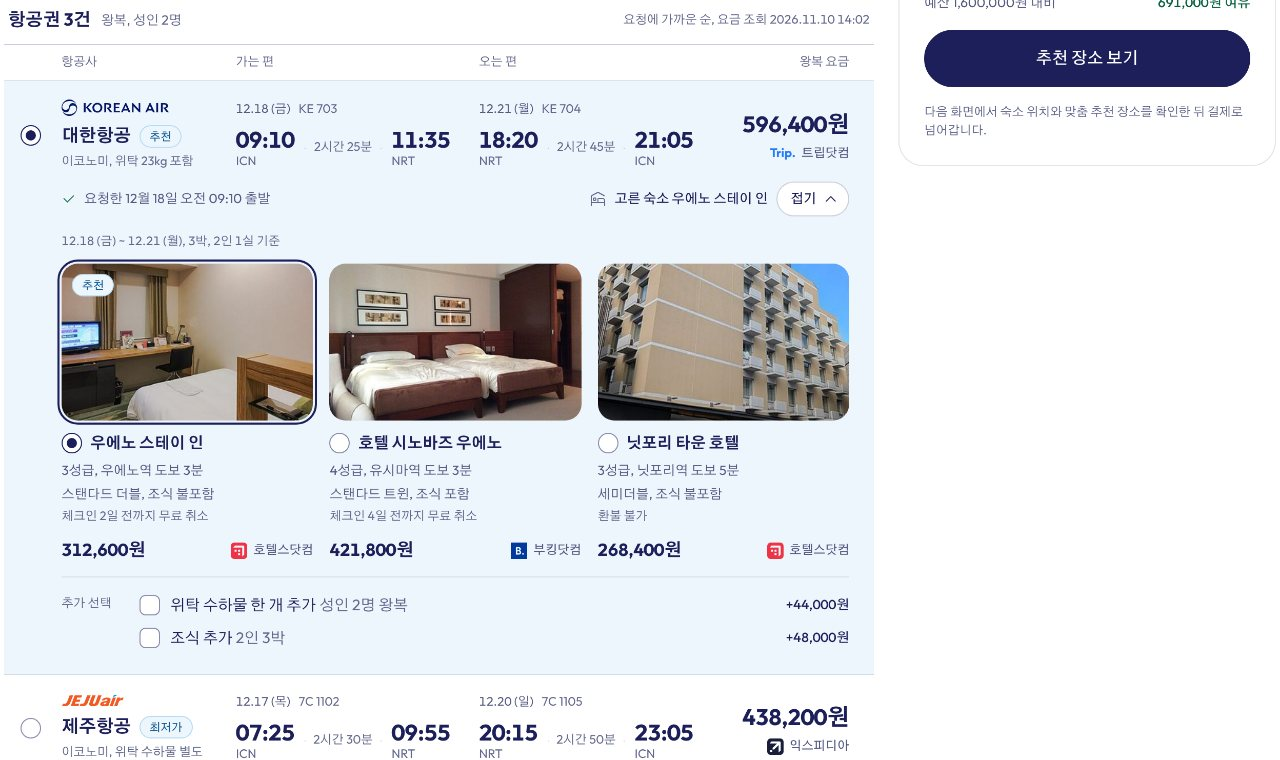
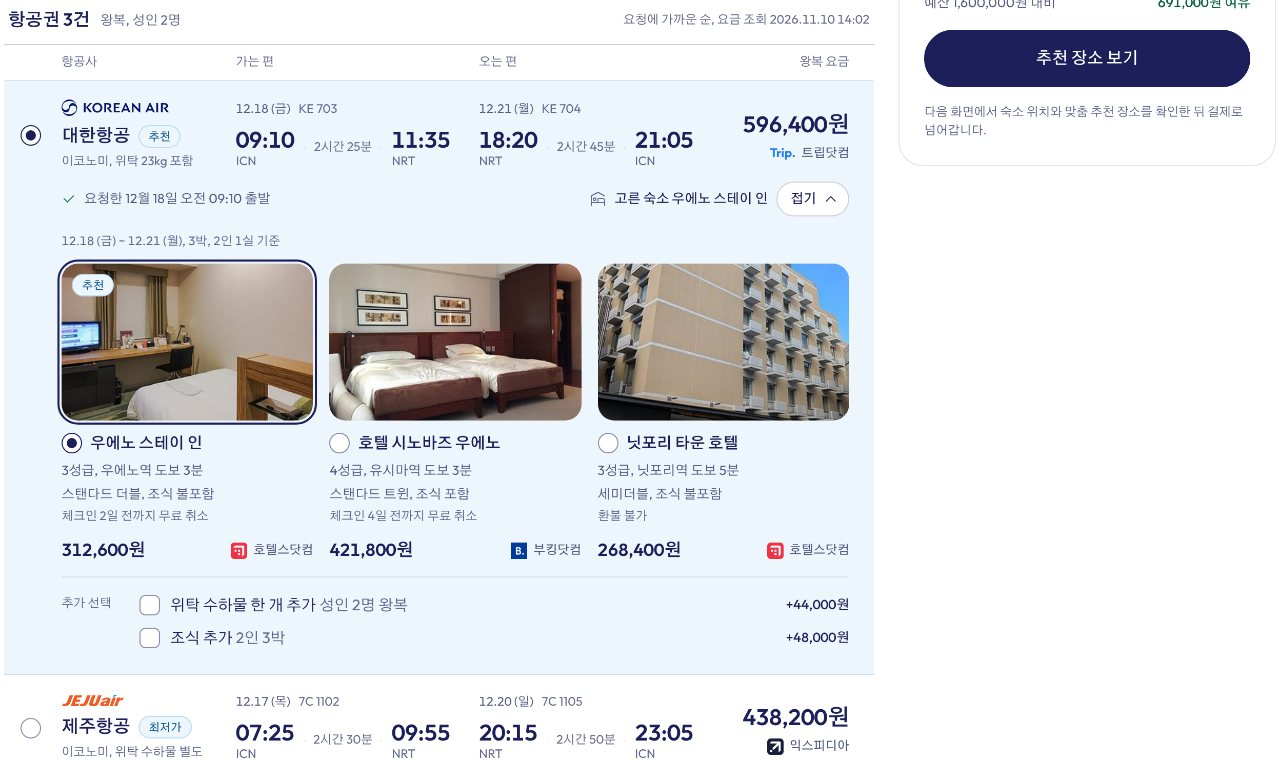
docs: 강조하는 글자의 굵기를 중간(600)으로 조정
- 굵게(700) 바꿨던 제목 · 큰 숫자 · 요금 · 시각 · 이름을 처음의 가는 굵기와 사이인 600 으로 낮춤 (--fw-bold)
- 굵기를 400 · 500 · 600 세 가지로 맞추고 글꼴 요청에서 700 을 뺌
- 이용 방법 그림, 한눈에 보기 이미지, 디자인 기준 문서 갱신

diff --git a/docs/design/src/tokens.css b/docs/design/src/tokens.css
@@ -1,6 +1,6 @@
 /* Trupass 디자인 토큰 (3차: 하늘 · 흰색 · 인디고)
    - 색: 흰 바탕에 깊은 인디고 글자, 강조는 하늘색 한 가지. 사진과 하늘이 색을 맡는다. 옅은 면과 선은 누런 기 없이 인디고 쪽 중립 톤.
-   - 글꼴: 라틴 · 숫자는 Outfit, 한글은 Gothic A1. 제목 · 큰 숫자 · 요금처럼 강조하는 글자는 굵게(700), 본문은 보통 굵기(400). 랜딩의 큰 워드마크는 600.
+   - 글꼴: 라틴 · 숫자는 Outfit, 한글은 Gothic A1. 제목 · 큰 숫자 · 요금처럼 강조하는 글자는 조금 굵게(600), 본문은 보통 굵기(400).
    - 모서리: 넉넉하게. 버튼과 표식은 알약형, 입력 14, 카드 24, 창(사진을 담는 틀) 28.
    - 레이아웃: 화면의 뼈대는 flex(row/column) + gap + padding. 스크롤 연출을 위한 겹침(하늘 · 구름 · 지구본)만 절대 위치를 쓴다.
    - 색 값은 전부 이 블록에 둔다. 다른 파일에서는 토큰만 쓴다. */
@@ -60,8 +60,8 @@
   --focus-gap: var(--n-0);
 
   --font: "Outfit", "Gothic A1", "Apple SD Gothic Neo", "Malgun Gothic", system-ui, sans-serif;
-  --fw-bold: 700;                 /* 강조하는 글자: 제목 · 큰 숫자 · 요금 · 시각 · 이름. 굵기는 400(본문) · 500(이름표 · 버튼) · 700 세 가지만 쓴다 */
-  --fw-mark: 600;                 /* 랜딩의 큰 워드마크(TRUPASS): 워낙 커서 굵은 제목보다 한 단계 얇게 쓴다 */
+  --fw-bold: 600;                 /* 강조하는 글자: 제목 · 큰 숫자 · 요금 · 시각 · 이름. 처음의 가는 글자(300)와 굵은 글자(700) 사이로 잡았다. 굵기는 400(본문) · 500(이름표 · 버튼) · 600 세 가지만 쓴다 */
+  --fw-mark: 600;                 /* 랜딩의 큰 워드마크(TRUPASS). 지금은 강조 굵기와 같지만 따로 조절할 수 있게 나눠 둔다 */
   --r-xs: 6px; --r-sm: 14px; --r-md: 24px; --r-lg: 28px; --r-pill: 999px;
   --e1: 0 6px 24px var(--k-08);
   --e2: 0 24px 64px var(--k-18);

diff --git a/docs/design/src/js/globe.js b/docs/design/src/js/globe.js
@@ -131,7 +131,7 @@
       ctx.fillRect(-w / 2 - 1.5 * s, y - 2.4 * s, w + 3 * s, 2.4 * s);
       var k = eout(cap), bw = 11 * s * k;
       ctx.beginPath(); ctx.roundRect ? ctx.roundRect(-bw / 2, y - 2.4 * s - 12.5 * s * k, bw, 11 * s * k, 3 * s) : ctx.rect(-bw / 2, y - 14.9 * s, bw, 11 * s); ctx.fill();
-      ctx.fillStyle = '#fff'; ctx.font = '700 ' + (8.5 * s * k).toFixed(1) + 'px Outfit, sans-serif'; ctx.textAlign = 'center'; ctx.textBaseline = 'middle';
+      ctx.fillStyle = '#fff'; ctx.font = '600 ' + (8.5 * s * k).toFixed(1) + 'px Outfit, sans-serif'; ctx.textAlign = 'center'; ctx.textBaseline = 'middle';
       ctx.fillText('H', 0, y - 2.4 * s - 6.8 * s * k);
       ctx.globalAlpha = 1;
     }

diff --git a/docs/design/README.md b/docs/design/README.md
@@ -45,7 +45,7 @@
 | 코드 정리 | 색 값은 전부 `tokens.css`의 토큰 블록에 있다(다른 파일에는 색 리터럴이 없다). 높이는 `svh`를 쓰고, 가로 넘침은 `overflow-x: clip`으로 막았다. 버튼에는 누름 · 꺼짐 상태가 있다 |
 | 꾸밈 줄이기 | 괄호 눈썹글, 메타 줄의 가운뎃점, 상태 점(진행 중만 남김), 랜딩의 영문 장식 문구(자간을 벌린 대문자, `(Scroll)`, `01 / 05`, `01 — Flights`), 버튼 끝의 화살표 동전, 푸터 제목의 색 강조 구절을 뺐다. 흐르는 글자는 남기고 멈춤 단추를 달았다. 화살표 동전은 요청에 따라 랜딩 오른쪽 위의 `[검색 시작]`에만 다시 넣었다 |
 | 앱 화면 머리부 | 제목을 56px에서 34px(앱 크기)로 줄이고 제목 옆에 진행 단계를 붙였다. 결과 화면의 첫 화면에 항공권 세 건이 거의 다 들어온다 |
-| 강조하는 글자 | 강조하거나 중요한 글자를 굵게(700) 바꿨다: 화면과 구간의 제목, 큰 숫자, 요금과 합계, 출발 · 도착 시각, 항공사와 숙소 이름. 굵기는 400 · 500 · 700 세 가지만 쓰고, 강조 굵기는 `--fw-bold` 토큰 한 곳에서 바꾼다. 랜딩의 TRUPASS 워드마크는 워낙 커서 한 단계 얇은 600(`--fw-mark`)을 쓰고, 그 아래 소개 문장(항공권 · 숙소 · 여행 장소를…)은 보통 굵기(400) 그대로 둔다 |
+| 강조하는 글자 | 강조하거나 중요한 글자를 본문보다 굵게 쓴다: 랜딩의 TRUPASS 워드마크, 화면과 구간의 제목, 큰 숫자, 요금과 합계, 출발 · 도착 시각, 항공사와 숙소 이름. 처음에는 가늘게(200~300) 잡았다가 굵게(700) 바꿨고, 지금은 그 사이인 600 이다. 굵기는 400 · 500 · 600 세 가지만 쓰고, 강조 굵기는 `--fw-bold`(워드마크는 `--fw-mark`) 토큰에서 바꾼다. 워드마크 아래 소개 문장(항공권 · 숙소 · 여행 장소를…)은 보통 굵기(400) 그대로 둔다 |
 | 내 여행 | 결제 이후에 이어지는 14 내 여행 화면을 더했다. 13 결제 완료의 `[내 여행에서 일정 보기]`와 상단 메뉴의 `[내 여행]`이 실제로 넘어간다 |
 | 가입 | 로그인과 가입을 `[Google 계정으로 계속하기]` 하나로 합쳤다. 회원 정보 입력은 실제 입력 칸으로 바꾸고 관심사 최대 3개, 필수 약관 확인이 실제로 동작한다 |
 | 요청 패널 | 문장 세 개와 적용한 조건을 3행 표로 짝지었다. 넓혀 잡은 날짜와 함께 찾은 공항에는 표식을 단다 |
@@ -83,7 +83,7 @@
 | 검색 중에 지구본, 한국(강조)에서 도착 국가(강조)로 비행기, "적절한 항공편을 검색중입니다" | canvas 지구본(d3-geo 정사영). 두 나라 쪽으로 돌아 들어온 뒤 비행기가 호를 그리며 날기를 되풀이한다 | 06 |
 | 숙소 검색 단계에서는 그 나라 영토 위에 호텔이 지어지는 반복 애니메이션 | 도착 국가를 가까이 당기고 다섯 도시에 호텔이 한 층씩 올라가 간판이 붙었다 사라지기를 되풀이한다. 끝나면 결과로 넘어간다 | 06 |
 | 결과에서 옵션 3가지가 페이드로 하나씩, 옵션별 토글로 항공권별 추천 숙소 | 항공권 줄이 0.32초 간격으로 떠오른다. 줄을 펼치면 숙소 3곳이 같은 방식으로 나오고, 고르면 합계가 바로 바뀐다 | 07 · 08 |
-| 이전 지적: 오른쪽 이용 절차 · 검색 출처 상자를 빼고 검색을 가운데로, 가입 화면 오른쪽 상자 2개 제거, 딱딱한 인상 | 이용 절차는 이용 방법 상자로, 검색 출처는 푸터로 옮겼다. 각진 패널과 표를 둥근 카드 · 알약 버튼으로 바꿨다(큰 글자는 3차에서 가늘게 잡았다가 4차에서 굵게 바꿨다) | 전체 |
+| 이전 지적: 오른쪽 이용 절차 · 검색 출처 상자를 빼고 검색을 가운데로, 가입 화면 오른쪽 상자 2개 제거, 딱딱한 인상 | 이용 절차는 이용 방법 상자로, 검색 출처는 푸터로 옮겼다. 각진 패널과 표를 둥근 카드 · 알약 버튼으로 바꿨다(큰 글자는 3차에서 가늘게 잡았다가 4차에서 조금 굵게 바꿨다) | 전체 |
 
 ### 눌러 볼 수 있는 범위
 
@@ -108,7 +108,7 @@
 - 색: 흰 바탕(`#ffffff`)에 깊은 인디고 글자(`#1c1f5a`), 강조는 하늘색(`#2b8fd9`) 한 가지. 옅은 면과 선은 누런 기 없이 인디고 쪽 중립 톤이다. 색은 사진과 하늘이 맡는다. 상태(완료 · 주의 · 실패)는 글자 색으로 구분하고, 점은 진행 중인 것에만 붙인다. 색 값은 전부 `src/tokens.css`의 토큰 블록에 있다.
 - 대비: 본문 `--tx` 14.6 : 1, 보조 `--tx-2` 6.6 : 1, 설명 `--tx-3` 5.4 : 1(흰 바탕 기준). 입력 칸 테두리 `--edge`는 3 : 1 이상이다.
 - 초점 표시: 2px 남색 테두리 + 바깥 흰 띠. 전환 없이 바로 나타난다.
-- 글꼴: 라틴 · 숫자 Outfit, 한글 Gothic A1. 제목 · 큰 숫자 · 요금 · 시각처럼 강조하는 글자는 굵게(700, `--fw-bold`), 이름표와 버튼은 500, 본문은 400. 굵기는 이 세 가지만 쓰고, 랜딩의 큰 워드마크만 600(`--fw-mark`)이다. Display 56/66, H1 34/44, 본문 15/24.
+- 글꼴: 라틴 · 숫자 Outfit, 한글 Gothic A1. 제목 · 큰 숫자 · 요금 · 시각처럼 강조하는 글자는 600(`--fw-bold`), 이름표와 버튼은 500, 본문은 400. 굵기는 이 세 가지만 쓴다. Display 56/66, H1 34/44, 본문 15/24.
 - 모서리: 버튼과 표식은 알약형, 입력 14, 카드 24, 사진을 담는 창 28. 창은 화면 가장자리에서 16(태블릿 12 · 모바일 8) 띄운다.
 - 반응형: 데스크톱 ≥1200 / 태블릿 768–1199 / 모바일 ≤767.
   - 데스크톱은 본문 + 오른쪽 칸(선택한 조합 · 결제 금액) 2단, 태블릿 · 모바일은 1단으로 쌓고 다음 단계 버튼을 아래 고정 바로 옮긴다.
